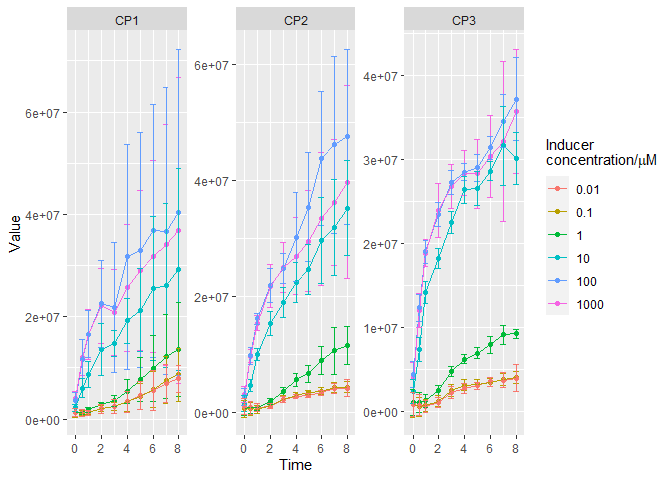
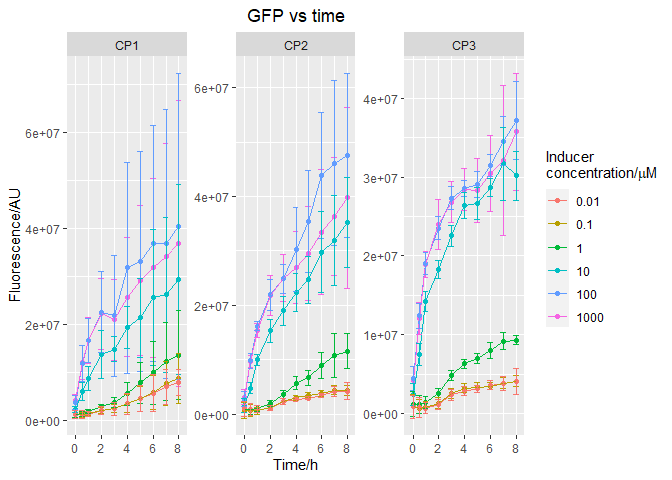
Add title, axis label, other minor edits

diff --git a/remake.md b/remake.md
@@ -27,8 +27,8 @@ Fluo_n = \\frac{Fluo - Fluo_{empty}}{Abs - Abs_{blank}}
 ")  
 
 where *Fluo* means fluorescence and *Abs* means absorption. *empty* are
-the wells that are innoculated with cells but are not supplemented with
-the inducer (IPTG here). *blank* are wells with only buffer. I used
+the wells innoculated with cells but are not supplemented with the
+inducer chemical(IPTG here). *blank* are wells with only buffer. I used
 *uncertainty propagation* to achieve the standard deviation of
 normalized fluorescence signal.
 
@@ -83,16 +83,17 @@ str(gfp)
 *RFP* stands for Red Fluorescence Protein, which represents the red Fluo
 signal. *GFP* ditto.
 
-## Step 3: Plot fluorescence signals against time
+## Step 2: Plot fluorescence signals against time
 
-After the spike of the inducer, the number of fluorescence in cells is
-expected to increase, until a plateau (a stationary phase) is hit.
+After the spike of the inducer, the number of fluorescence proteins in
+cells is expected to increase, until it hits a plateau (a stationary
+phase).
 
-Below are two separate graphs dealing with RFP signal and GFP signal. In
-the original design (see the dataframe structure above), I treated CP1,
-CP2, and CP3 as different columns, which refers to different designs of
-coupling sequences. In order to make faceted graphs, I used `rbind` to
-stack these columns into a new dataframe.
+Below are two separate graphs dealing with RFP signals and GFP signals.
+In the original design (see the dataframe structure above), I treated
+CP1, CP2, and CP3 as different columns, which refer to different designs
+of coupling sequences. In order to make faceted graphs, I used `rbind`
+to stack these columns into a new dataframe.
 
 ``` r
 # To make faceted graphs, CP1, CP2, CP3 columns will has to be merged
@@ -116,8 +117,10 @@ ggplot(cp_extract, aes(x = Time, y = Value, color = as.factor(Inducer))) +
   geom_point() +
   geom_line() +
   geom_errorbar(aes(ymin = Value - Std, ymax = Value + Std)) +
-  labs(color = TeX("Inducer\nconcentration/$\\mu$M")) +
-  facet_wrap(vars(CP), scale="free_y")
+  labs(color = TeX("Inducer\nconcentration/$\\mu$M"),
+       x = "Time/h", y = "Fluorescence/AU", title = "RFP vs time") +
+  facet_wrap(vars(CP), scale="free_y") +
+  theme(plot.title = element_text(hjust = 0.5))
 ```
 
 <img src="remake_files/figure-gfm/red fluo against time-1.png" width="100%" />
@@ -144,19 +147,21 @@ ggplot(cp_extract, aes(x = Time, y = Value, color = as.factor(Inducer))) +
   geom_point() +
   geom_line() +
   geom_errorbar(aes(ymin = Value - Std, ymax = Value + Std)) +
-  labs(color = TeX("Inducer\nconcentration/$\\mu$M")) +
-  facet_wrap(vars(CP), scale="free_y")
+  labs(color = TeX("Inducer\nconcentration/$\\mu$M"),
+       x = "Time/h", y = "Fluorescence/AU", title = "GFP vs time") +
+  facet_wrap(vars(CP), scale="free_y") +
+  theme(plot.title = element_text(hjust = 0.5))
 ```
 
 <img src="remake_files/figure-gfm/green fluo against time-1.png" width="100%" />
 
-Yes, as you can see, there are some quite discomfirting error bars at
+Yes, as you can see, there are some quite discomforting error bars at
 the beginning of the red fluorescence signal measurements. Also, this
 part the signal is lower than the empty group, which is likely to be an
 error in the measuring process. Thus, for the RFP measurement, we only
 used data sampled **after 4 hours**.
 
-Also, these plots are not the same ones with the old graphs from README.
+Also, these plots are not the same ones as the old graphs from README.
 My initial goal was to imitate those plots, but that would actually
 require more knowledge in data wrangling. For this assignment, I just
 plot these fluorescence signals against time.
